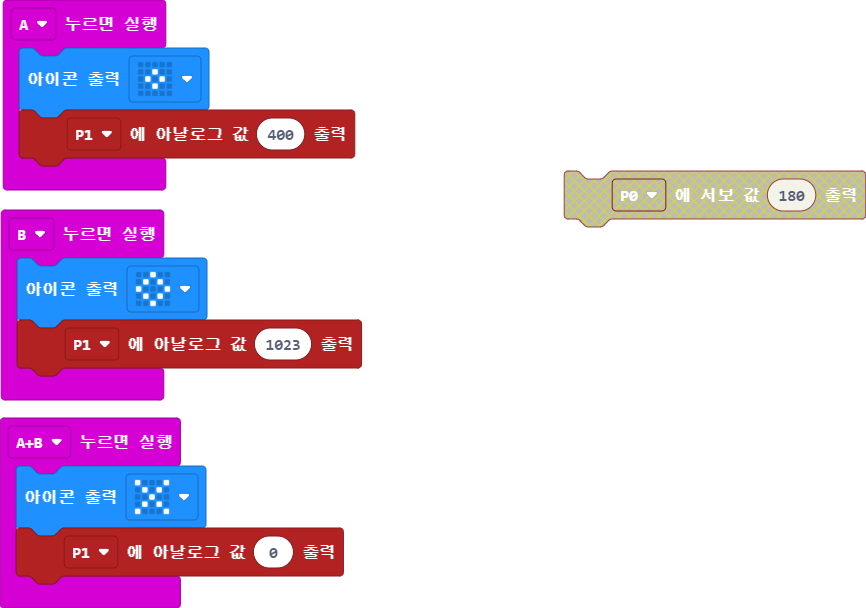
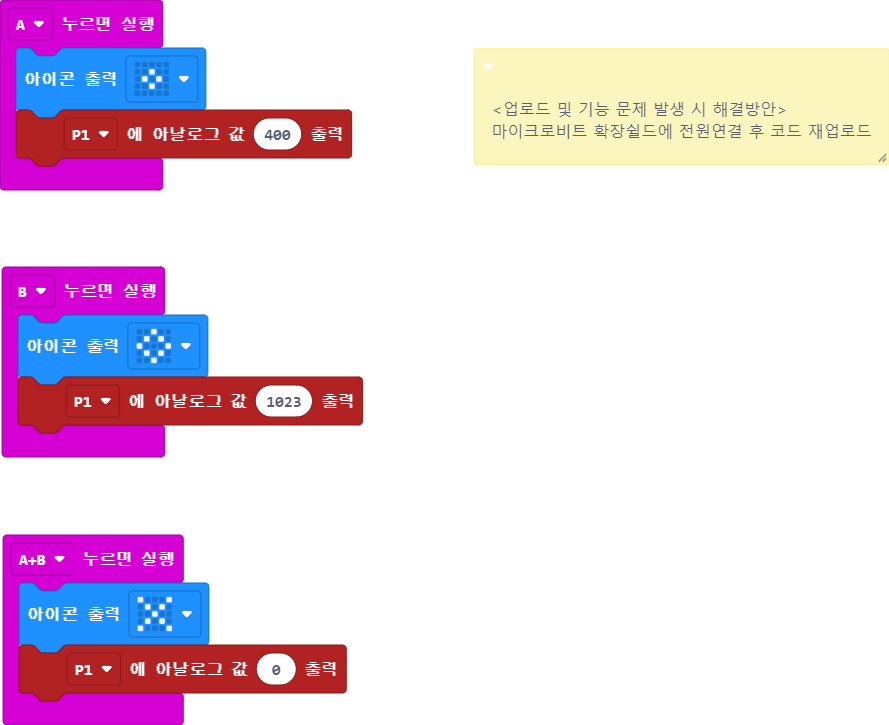
main.blocks, main.ts 업데이트하기

diff --git a/main.ts b/main.ts
@@ -1,3 +1,8 @@
+/**
+ * <업로드 및 기능 문제 발생 시 해결방안>
+ * 
+ * 마이크로비트 확장쉴드에 전원연결 후 코드 재업로드
+ */
 input.onButtonPressed(Button.A, function () {
     basic.showIcon(IconNames.SmallDiamond)
     pins.analogWritePin(AnalogPin.P1, 400)
